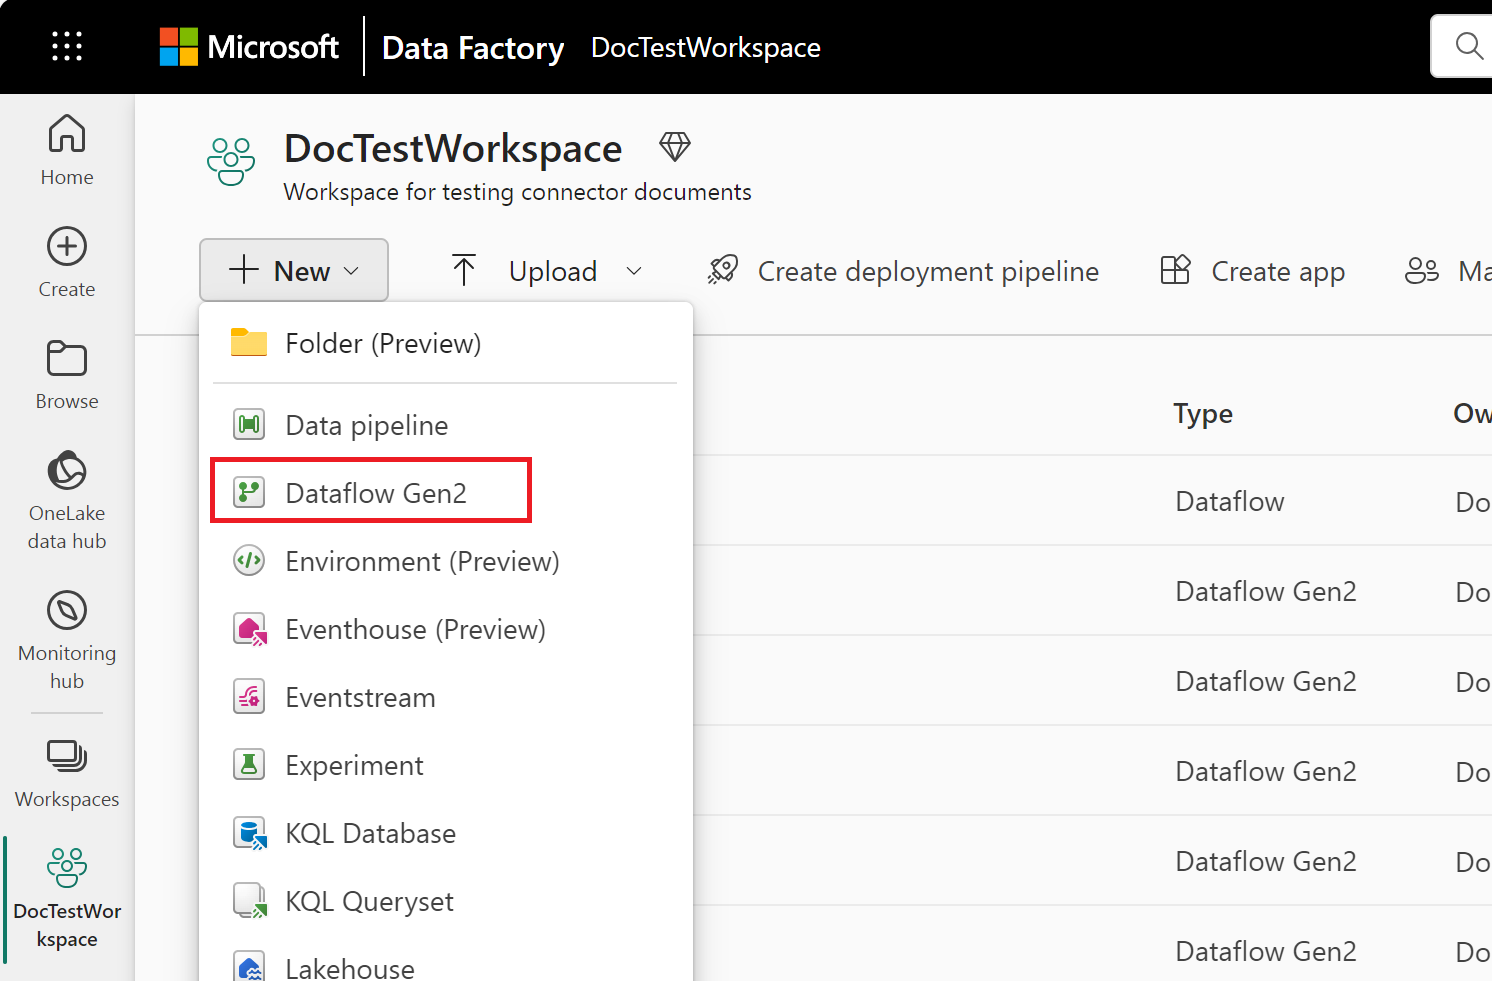
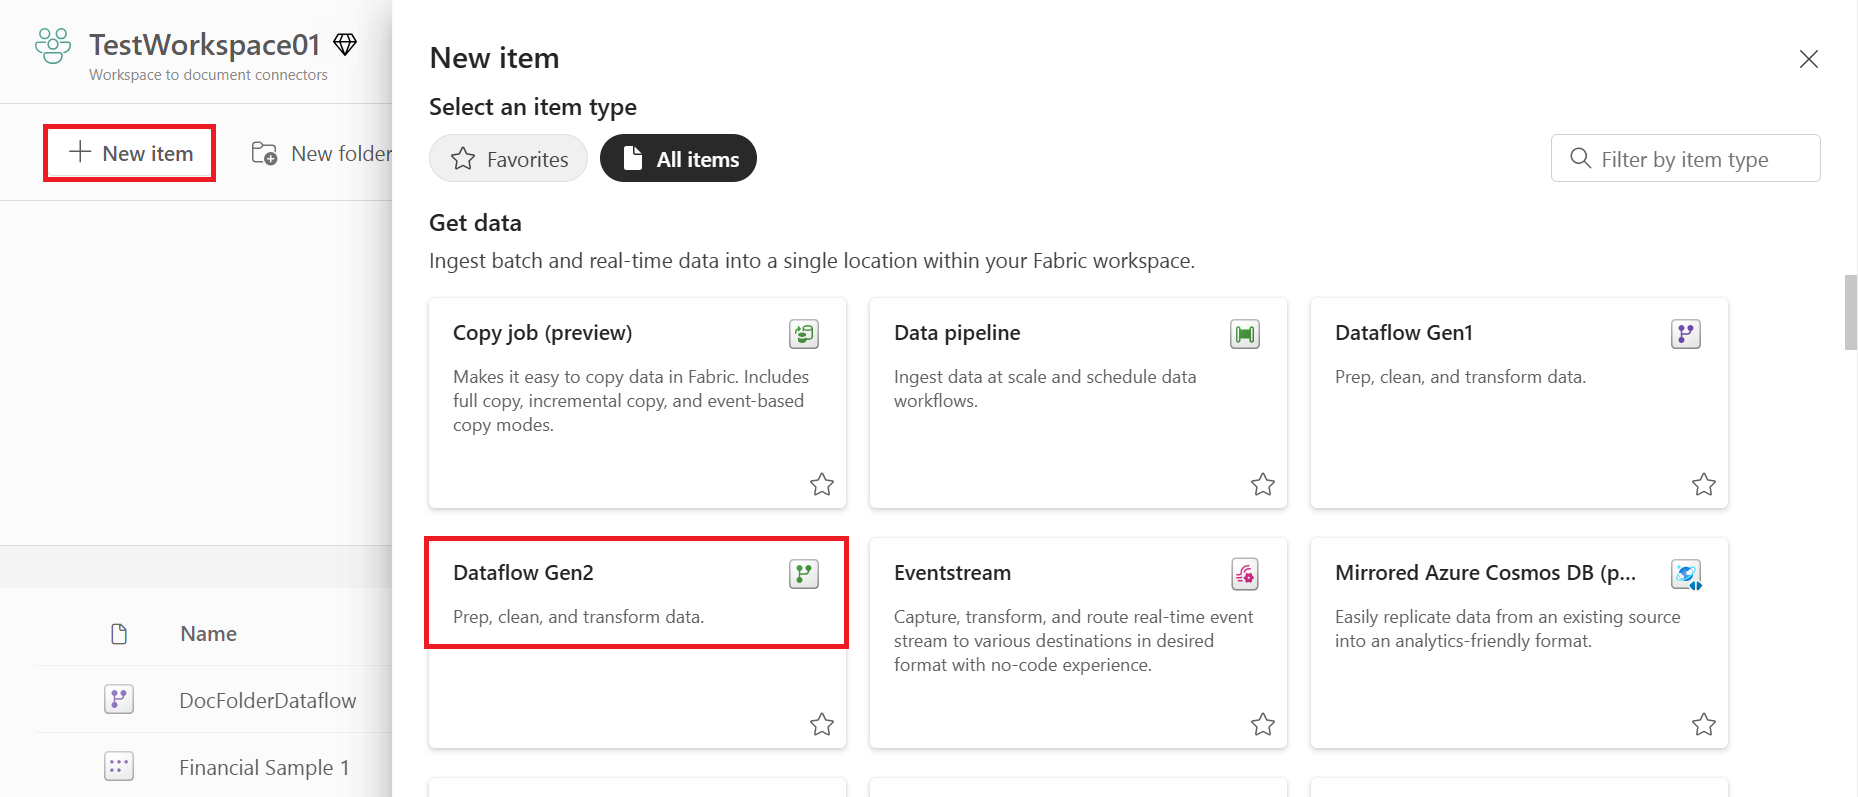
Updated Power BI service and Fabric sections

diff --git a/powerquery-docs/where-to-get-data.md b/powerquery-docs/where-to-get-data.md
@@ -3,7 +3,7 @@ title: Where to get data
 description: Describes the process of getting data for Power Query from various Microsoft products.
 author: DougKlopfenstein
 ms.topic: conceptual
-ms.date: 3/12/2024
+ms.date: 1/9/2025
 ms.author: dougklo
 ms.subservice: get-data
 ---
@@ -42,17 +42,22 @@ In Excel for Windows, you can also directly select Text/CSV, Web, and Excel work
 
 To get data in Power BI service:
 
-1. On the left side of Power BI service, select **Workspaces** (but not **My Workspace**).
+1. On the left side of Power BI service, select **Workspaces**.
 
 2. From the Workspace context menu, select the workspace you want to use.
 
-3. From the workspace (in this example, TestWorkspace01), select the context menu next to **New**.
+3. From the workspace (in this example, TestWorkspace01), select **New item**.
 
-4. From the **New** context menu, select **Dataflow**.
+4. From the **New item** page, under **Get data**, select the dataflow version you want to use (either Dataflow Gen1 or Dataflow Gen2).
 
-   :::image type="content" source="media/where-to-get-data/workspace-dataflow.png" alt-text="Screenshot with text workspace open, the context menu for new open, and dataflow emphasized." lightbox="media/where-to-get-data/workspace-dataflow.png":::
+   :::image type="content" source="media/where-to-get-data/workspace-dataflow.png" alt-text="Screenshot with text workspace open, the New item page open, and the two dataflow versions emphasized." lightbox="media/where-to-get-data/workspace-dataflow.png":::
 
-5. From **Define new tables**, select **Add new tables**.
+5. If you select **Dataflow Gen1**:
+   1. From **Define new tables**, select **Add new tables**.
+
+   If you select **Dataflow Gen2**:
+   1. In the **New Dataflow Gen2** dialog, enter the name of your new dataflow and then select **Create**.
+   1. In the Power Query editor, under the **Home** tab, select **Get data**.
 
 6. In the **Choose data source** page, use **Search** to search for the name of the connector, or select **View more** on the right hand side the connector to see a list of all the connectors available in Power BI service.
 
@@ -84,7 +89,7 @@ To import data to a new table in Power Apps:
 
 4. If you choose to view more connectors, you can still use **Search** to search for the name of the connector, or choose a category to see a list of connectors associated with that category.
 
-   :::image type="content" source="media/where-to-get-data/power-apps-view-more.png" alt-text="Screenshot of the Power Apps Choose data source page displayed after selecting view more, including the categories at the top and then the list of connectors." lightbox="media/where-to-get-data/power-apps-view-more.png":::
+   :::image type="content" source="media/where-to-get-data/power-apps-view-more.png" alt-text="Screenshot of the Power Apps Choose data source page displayed after selecting view more, with the list of connectors." lightbox="media/where-to-get-data/power-apps-view-more.png":::
 
 To import data to an existing table in Power Apps:
 
@@ -149,21 +154,21 @@ To get data in Customer Insights:
 
 7. If you choose to view more connectors, you can still use **Search** to search for the name of the connector, or choose a category to see a list of connectors associated with that category.
 
-   :::image type="content" source="media/where-to-get-data/customer-insights-view-more.png" alt-text="Screenshot of the Customer Insights Choose data source page displayed after selecting view more, including the categories at the top and then the list of connectors." lightbox="media/where-to-get-data/customer-insights-view-more.png":::
+   :::image type="content" source="media/where-to-get-data/customer-insights-view-more.png" alt-text="Screenshot of the Customer Insights Choose data source page displayed after selecting view more, with the list of connectors." lightbox="media/where-to-get-data/customer-insights-view-more.png":::
 
-## Get data from Data Factory in Microsoft Fabric (Preview)
+## Get data from Data Factory in Microsoft Fabric
 
 To get data in Data Factory:
 
-1. On the left side of Data Factory, select **Workspaces** (but not **My Workspace**).
+1. On the left side of Data Factory, select **Workspaces**.
 
-2. From your Data Factory workspace, select **New** > **Dataflow Gen2 (Preview)** to create a new dataflow.
+2. From your Data Factory workspace, select **New** > **Dataflow Gen2** to create a new dataflow.
 
    :::image type="content" source="./media/where-to-get-data/select-open-dataflow.png" alt-text="Screenshot showing the workspace where you choose to create a new dataflow." lightbox="./media/where-to-get-data/select-open-dataflow.png":::
 
 3. In Power Query, either select **Get data** in the ribbon or select **Get data from another source** in the current view.
 
-   :::image type="content" source="./media/where-to-get-data/get-data.png" alt-text="Screenshot showing the Power Query workspace with the Get data option emphasized.":::
+   :::image type="content" source="./media/where-to-get-data/get-data.png" alt-text="Screenshot showing the Power Query workspace with the Get data option emphasized." lightbox="./media/where-to-get-data/get-data.png":::
 
 4. In the **Choose data source** page, use **Search** to search for the name of the connector, or select **View more** on the right hand side the connector to see a list of all the connectors available in Power BI service.
 
@@ -171,7 +176,7 @@ To get data in Data Factory:
 
 5. If you choose to view more connectors, you can still use **Search** to search for the name of the connector, or choose a category to see a list of connectors associated with that category.
 
-   :::image type="content" source="media/where-to-get-data/data-factory-view-more.png" alt-text="Screenshot of the Data Factory Choose data source page displayed after selecting view more, including the categories at the top and then the list of connectors." lightbox="media/where-to-get-data/data-factory-view-more.png":::
+   :::image type="content" source="media/where-to-get-data/data-factory-view-more.png" alt-text="Screenshot of the Data Factory Choose data source page displayed after selecting view more, with the list of connectors." lightbox="media/where-to-get-data/data-factory-view-more.png":::
 
 ## Get data in Analysis Services
 
